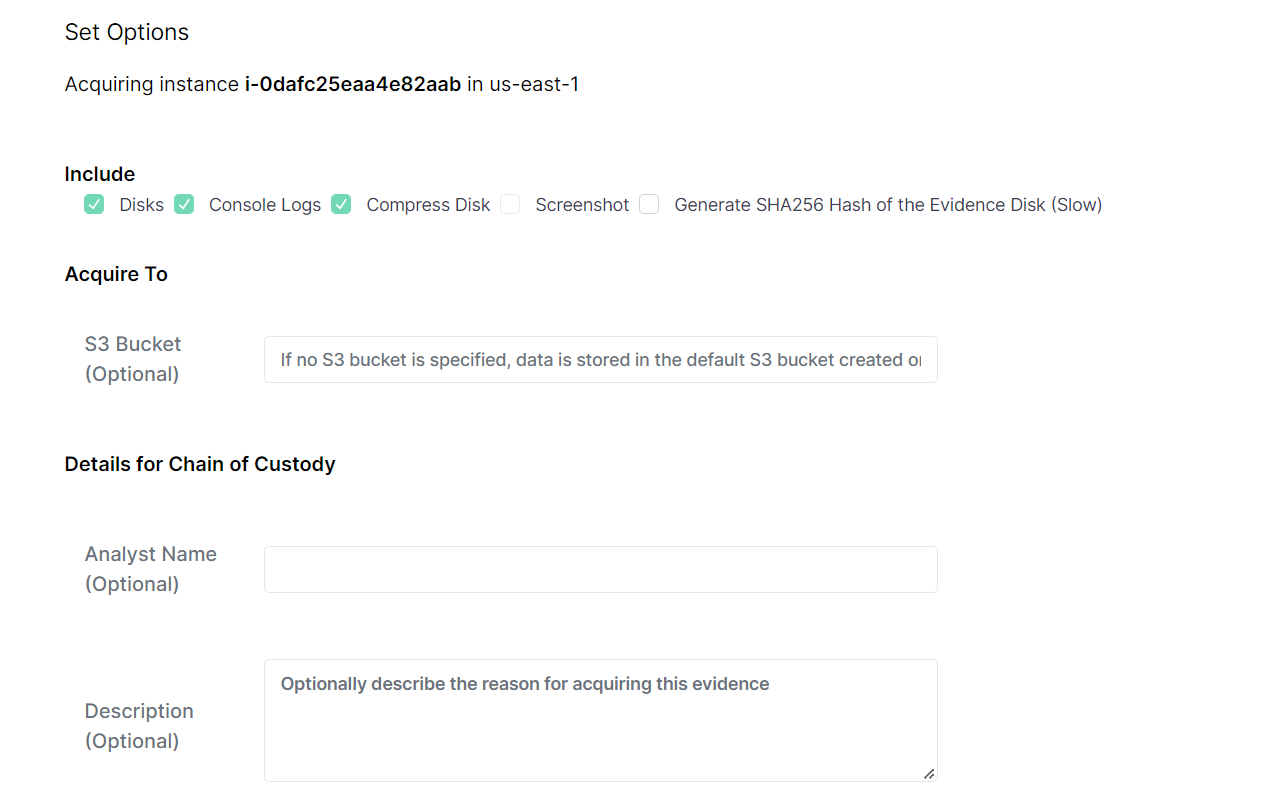
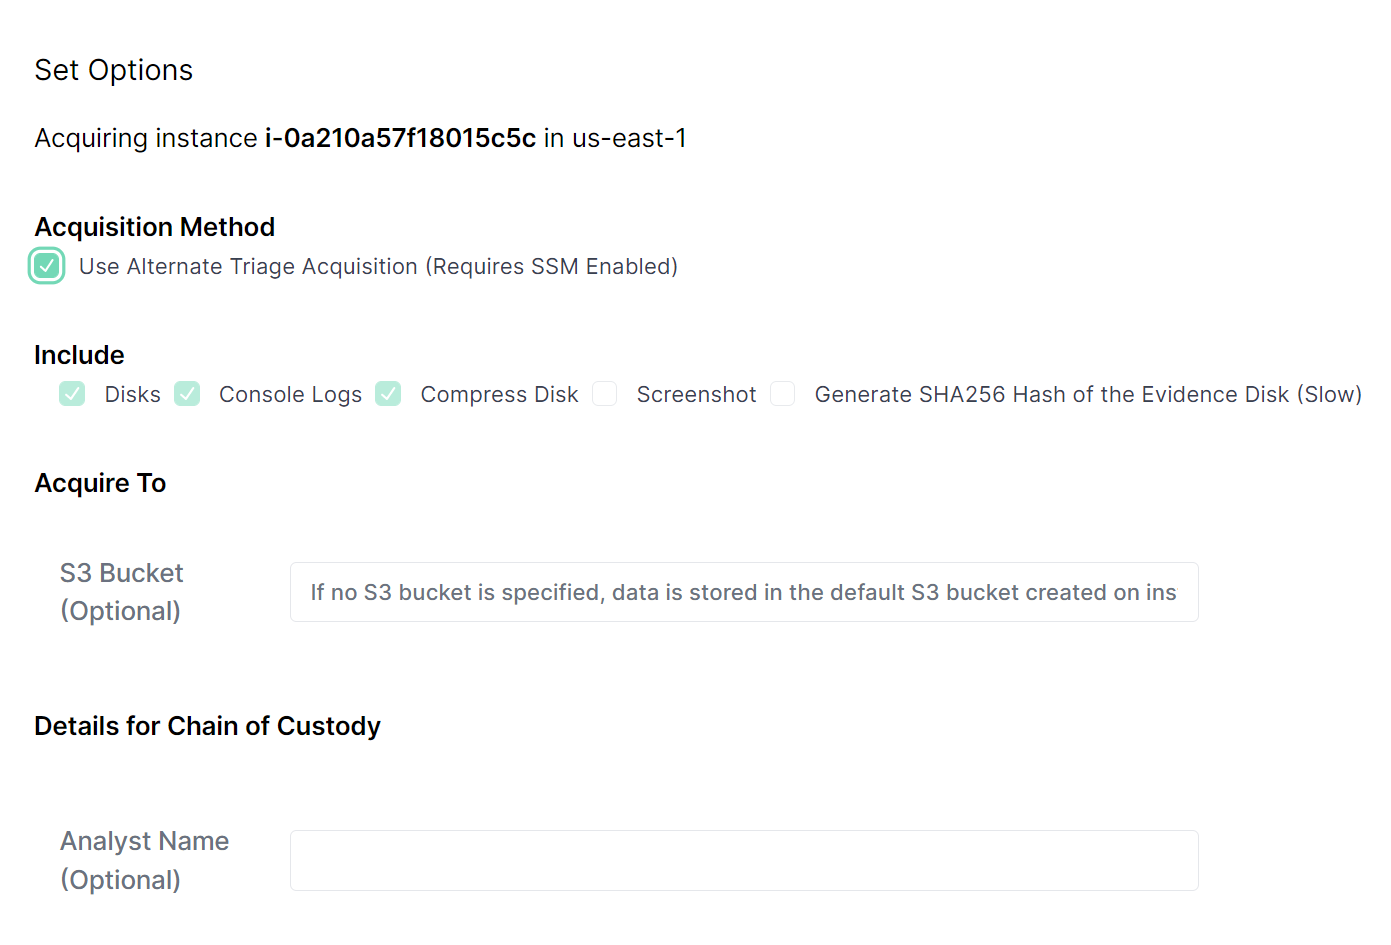
EC2 Triage
EC2 Triage

diff --git a/docs/cado-response/discovery-import/import/aws/aws-ec2.md b/docs/cado-response/discovery-import/import/aws/aws-ec2.md
@@ -13,6 +13,8 @@ You can filter the list of instances and buckets by instance ID, name, state or 
 
 Click on "Acquire Volume" or "Acquire Memory" 
 
-For volume capture, set the options for what data you want to capture, plus any optional labels for chain of custody and hit "Acquire Instance"
+For volume capture, set the options for what data you want to capture, plus any optional labels for chain of custody and hit "Acquire Instance".
+
+*NOTE: To perform a faster triage collection on an EC2 instance using Cado Host, select the button "Use Alternate Triage Acquisition". Please note that this requires that SSM be enabled on the target instance. For more information about about what Cado Host collects see [Collected Artifacts](/cado-host/artifacts.md)*
 
 ![AWS EC2 details](/img/aws-ec2-options.png)

diff --git a/docs/release-notes/release-notes.md b/docs/release-notes/release-notes.md
@@ -7,11 +7,17 @@ sidebar_position: 1
 # Cado Release Notes
 ## Latest release notes
 
+## v.2.5.0
+`Released 2022-10-07`
+- Ability to perform triage collection EC2 instances using Cado Host 
+
 ## v.2.4.0
 `Released  2022-10-06`
+- Fixes to allow for AWS Role requirements changes
 - Cado Host now includes volatile data, presenting the collected process.json file as a graph of running processes
 - New icons and clearer presentation of the project and evidence graph
 - Improved auto-investigate algorithm, which better filters to only the most relevant events
+- *Note: This release requires an updated IAM role*
 
 ## v.2.2.0
 `Released  2022-09-16`
